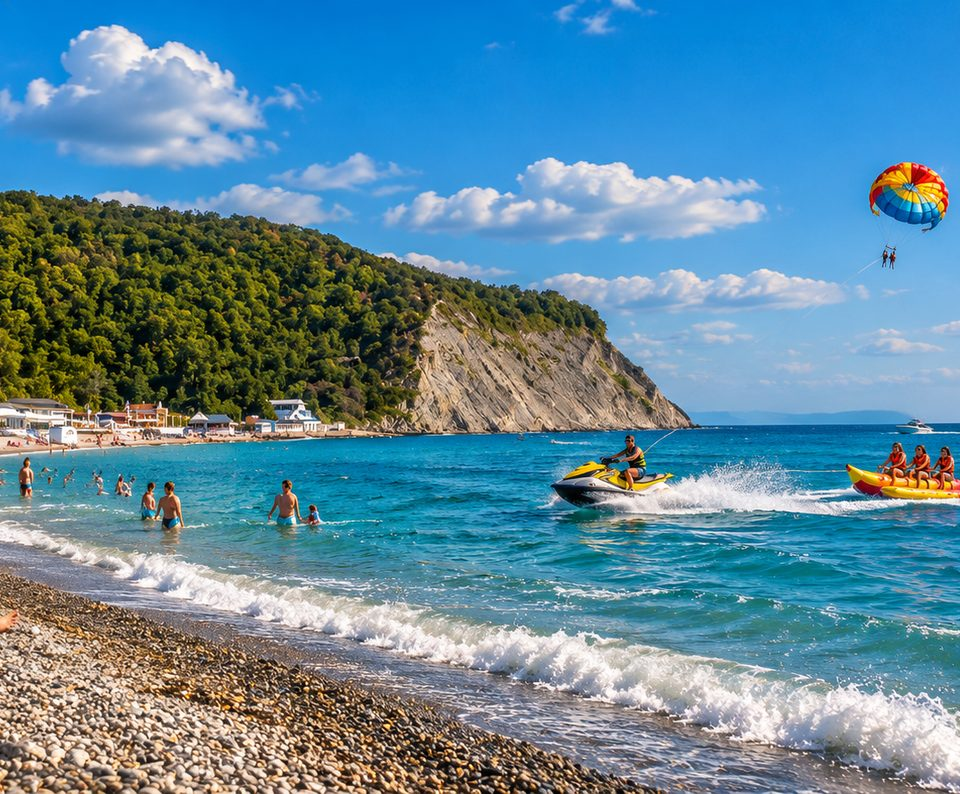
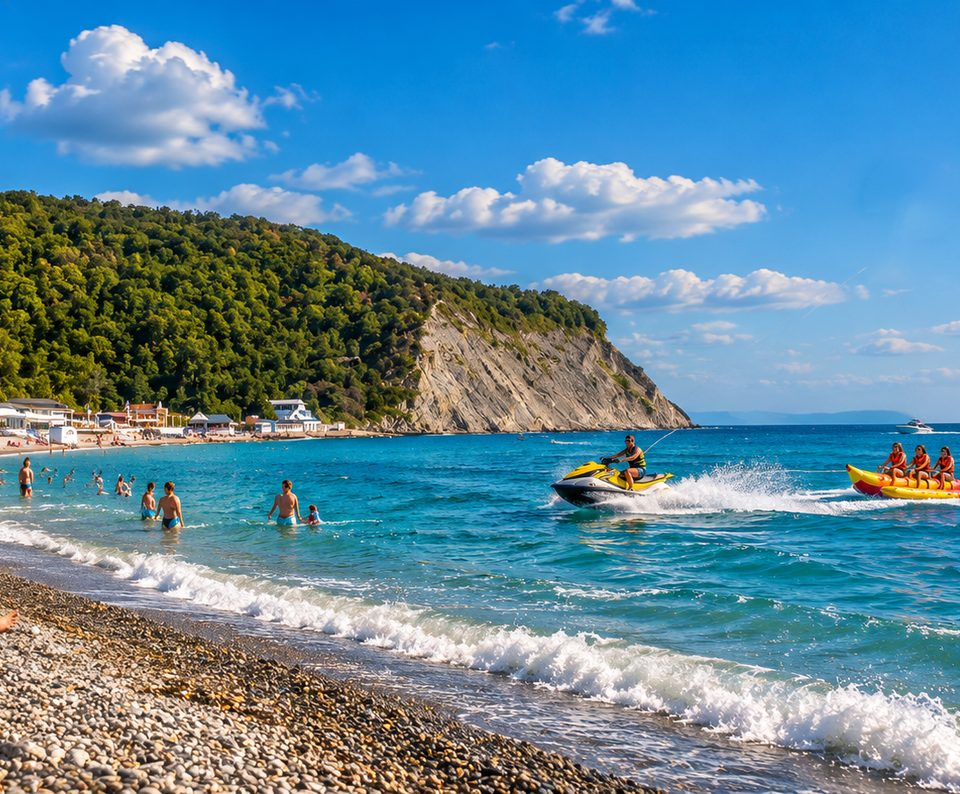
Шапка: анимация, Архипо-Осиповка; жильё в две колонки

Changed region(s): [[0.9062, 0.1814, 1.0, 0.3023], [0.9062, 0.3023, 0.9375, 0.3325]]

diff --git a/yugi.css b/yugi.css
@@ -16,7 +16,7 @@
     -webkit-mask-image: linear-gradient(180deg, #000 55%, transparent 100%); mask-image: linear-gradient(180deg, #000 55%, transparent 100%); }
 .hero-photo { position: absolute; inset: 0; width: 100%; height: 100%; object-fit: cover; object-position: right top; }
 .hero-art { position: absolute; inset: 0; width: 100%; height: 100%; }
-.hero-photo + .hero-art { display: none; }
+.hero-scene:has(.hero-stage) .hero-art { display: none; }
 #tab-search > :not(.hero-scene) { position: relative; z-index: 1; }
 
 .hero-title { font-family: var(--font); font-weight: 800; font-size: 40px; letter-spacing: -1.4px; line-height: 1.04; max-width: none; margin-bottom: 12px; text-shadow: 0 2px 18px rgba(0, 0, 0, .35); }
@@ -746,3 +746,55 @@
 
 /* v29: подзаголовок поверх фото — чуть плотнее тень */
 .hero-photo ~ .hero-sub, #tab-search .hero-sub { text-shadow: 0 1px 3px rgba(0, 0, 0, .5), 0 1px 14px rgba(0, 0, 0, .45); }
+
+/* v30: оживлённая шапка — парашют качается на стропах, по морю идёт рябь и играют блики */
+.hero-stage { position: absolute; right: 0; top: 0; width: max(100%, 435px); aspect-ratio: 960 / 794; }
+.hero-sea { position: absolute; inset: 0; width: 100%; height: 100%; pointer-events: none; will-change: transform; }
+.hero-sea.sea-a { -webkit-mask-image: linear-gradient(180deg, transparent 53%, #000 59%, #000 68%, transparent 78%); mask-image: linear-gradient(180deg, transparent 53%, #000 59%, #000 68%, transparent 78%); }
+.hero-sea.sea-b { -webkit-mask-image: linear-gradient(180deg, transparent 64%, #000 74%, #000 100%); mask-image: linear-gradient(180deg, transparent 64%, #000 74%, #000 100%); }
+.hero-glint { position: absolute; left: 0; width: 100%; top: 52.90%; height: auto; pointer-events: none; opacity: .75; mix-blend-mode: screen; }
+.hero-para { position: absolute; left: 90.31%; top: 20.17%; width: 8.95%; height: auto; pointer-events: none; transform-origin: 26.0% 89.0%; will-change: transform; }
+@media (prefers-reduced-motion: no-preference) {
+    .hero-para { animation: paraSwing 6.4s ease-in-out infinite alternate, paraFloat 9s ease-in-out infinite alternate; }
+    .hero-sea.sea-a { animation: seaA 6.8s ease-in-out infinite alternate; }
+    .hero-sea.sea-b { animation: seaB 5.4s ease-in-out infinite alternate; }
+    .hero-glint.gl-a { animation: glint 2.9s ease-in-out infinite alternate; }
+    .hero-glint.gl-b { animation: glint 2.9s ease-in-out -1.45s infinite alternate; }
+}
+@keyframes paraSwing { from { transform: rotate(-3.2deg); } to { transform: rotate(3.2deg); } }
+@keyframes paraFloat { from { translate: -4px 2px; } to { translate: 5px -3px; } }
+@keyframes seaA { from { translate: -3px 0; } to { translate: 3px 1.5px; } }
+@keyframes seaB { from { translate: 5px 2px; } to { translate: -5px -2px; } }
+@keyframes glint { from { opacity: .12; } to { opacity: .85; } }
+
+/* ===== v31: название местности в шапке, белый заголовок на любой теме, жильё — две колонки (4 карточки на экран) ===== */
+.hero-place { display: flex; width: fit-content; align-items: center; gap: 6px; height: 26px; padding: 0 12px 0 9px; margin: -34px 0 8px; border-radius: 13px; background: rgba(8, 18, 32, .4); border: 1px solid rgba(255, 255, 255, .32); -webkit-backdrop-filter: blur(10px); backdrop-filter: blur(10px); color: #fff; font: 700 12.5px/1 var(--font); letter-spacing: .2px; text-shadow: 0 1px 6px rgba(0, 0, 0, .4); }
+.hero-place i { color: #FFB84D; font-size: 11.5px; }
+/* заголовок лежит на фотографии, поэтому остаётся светлым и на светлых темах */
+.hero-scene:has(.hero-stage) ~ .hero-title { color: #fff; }
+.hero-scene:has(.hero-stage) ~ .hero-sub { color: rgba(255, 255, 255, .94); }
+
+#chatMessages.cards:has(.chat-message-ad) { display: grid; grid-template-columns: repeat(2, minmax(0, 1fr)); column-gap: 0; row-gap: 10px; align-content: start; padding-left: 9px; padding-right: 9px; }
+#chatMessages.cards:has(.chat-message-ad) > :not(.chat-message-ad) { grid-column: 1 / -1; margin-left: -9px; margin-right: -9px; }
+#chatMessages.cards:has(.chat-message-ad) > .chat-message-ad { padding: 0 5px; margin: 0; min-width: 0; }
+#chatMessages.cards:has(.chat-message-ad) .chat-bubble { border-radius: 18px; }
+#chatMessages.cards:has(.chat-message-ad) .chat-ad-image { height: auto; aspect-ratio: 1 / .84; }
+#chatMessages.cards:has(.chat-message-ad) .card-fav { top: 7px; right: 7px; width: 32px; height: 32px; font-size: 14px; }
+#chatMessages.cards:has(.chat-message-ad) .ad-badge-urgent { top: 8px; left: 8px; font-size: 10px; padding: 3px 8px; }
+#chatMessages.cards:has(.chat-message-ad) .ph-count, #chatMessages.cards:has(.chat-message-ad) .sea-dist { bottom: 7px; height: 21px; padding: 0 7px; gap: 4px; font-size: 10.5px; border-radius: 11px; }
+#chatMessages.cards:has(.chat-message-ad) .ph-count { left: 7px; }
+#chatMessages.cards:has(.chat-message-ad) .sea-dist { right: 7px; }
+#chatMessages.cards:has(.chat-message-ad) .sea-dist small { display: none; }
+#chatMessages.cards:has(.chat-message-ad) .ad-info { padding: 7px 9px 9px; gap: 1px; }
+#chatMessages.cards:has(.chat-message-ad) .ad-row1 { gap: 4px; flex-wrap: wrap; }
+#chatMessages.cards:has(.chat-message-ad) .chat-message-ad .chat-ad-price, #chatMessages.cards:has(.chat-message-ad) .chat-ad-price { font-size: 15px; }
+#chatMessages.cards:has(.chat-message-ad) .ad-rate { font-size: 11.5px; }
+#chatMessages.cards:has(.chat-message-ad) .ad-rate small { display: none; }
+#chatMessages.cards:has(.chat-message-ad) .chat-ad-title { font-size: 13px; line-height: 1.25; }
+#chatMessages.cards:has(.chat-message-ad) .chat-ad-location { font-size: 11px; white-space: nowrap; overflow: hidden; text-overflow: ellipsis; display: block; }
+#chatMessages.cards:has(.chat-message-ad) .chat-ad-location span { overflow: hidden; text-overflow: ellipsis; }
+#chatMessages.cards:has(.chat-message-ad) .ad-amen { margin-top: 5px; gap: 4px; flex-wrap: nowrap; overflow: hidden; }
+#chatMessages.cards:has(.chat-message-ad) .ad-amen .am { font-size: 0; gap: 0; width: 24px; height: 22px; padding: 0; justify-content: center; flex: none; }
+#chatMessages.cards:has(.chat-message-ad) .ad-amen .am i { font-size: 11px; }
+#chatMessages.cards:has(.chat-message-ad) .ad-amen .am.more { width: auto; padding: 0 6px; font-size: 10.5px; }
+#chatMessages.cards:has(.chat-message-ad) .chat-reactions:empty { display: none; }

diff --git a/index.html b/index.html
@@ -19,7 +19,7 @@
     <!-- Стили -->
     <link rel="stylesheet" href="styles.css?v=2">
     <link rel="stylesheet" href="features.css?v=2">
-    <link rel="stylesheet" href="yugi.css?v=29">
+    <link rel="stylesheet" href="yugi.css?v=31">
 </head>
 <body>
 
@@ -68,7 +68,14 @@
         <!-- ========== ВКЛАДКА 2: ОНЛАЙН ПОИСК ========== -->
         <section class="tab-content" id="tab-search" style="display:none;">
             <div class="hero-scene" aria-hidden="true">
-                <img class="hero-photo" src="images/hero.jpg" alt="" onerror="this.remove()">
+                <div class="hero-stage">
+                    <img class="hero-photo" src="images/hero.jpg" alt="" onerror="this.parentNode.remove()">
+                    <img class="hero-sea sea-a" src="images/hero.jpg" alt="" onerror="this.remove()">
+                    <img class="hero-sea sea-b" src="images/hero.jpg" alt="" onerror="this.remove()">
+                    <img class="hero-glint gl-a" src="images/hero-glint-a.png" alt="" onerror="this.remove()">
+                    <img class="hero-glint gl-b" src="images/hero-glint-b.png" alt="" onerror="this.remove()">
+                    <img class="hero-para" src="images/hero-para.png" alt="" onerror="this.remove()">
+                </div>
                 <svg class="hero-art" viewBox="0 0 400 300" preserveAspectRatio="xMaxYMin slice">
                     <defs>
                         <radialGradient id="hgSun" cx="0.72" cy="0.78" r="0.7"><stop offset="0" stop-color="#FFD58A" stop-opacity=".95"/><stop offset=".25" stop-color="#FF9A5C" stop-opacity=".55"/><stop offset="1" stop-color="#FF7A59" stop-opacity="0"/></radialGradient>
@@ -81,6 +88,7 @@
                 </svg>
             </div>
 
+            <div class="hero-place"><i class="fas fa-location-dot"></i><span>Архипо-Осиповка</span></div>
             <h1 class="hero-title">Твоё место<br>у <em>моря</em></h1>
             <p class="hero-sub">Жильё, работа, попутчики и вещи — в одном приложении.</p>
 
@@ -188,7 +196,7 @@
 
 <!-- Логика приложения -->
 <script src="rooms.js?v=3"></script>
-<script src="app.js?v=10"></script>
+<script src="app.js?v=11"></script>
 <script src="listing.js?v=6"></script>
 <script src="profile.js?v=9"></script>
     <script src="social.js?v=5"></script>

diff --git a/app.js b/app.js
@@ -734,7 +734,7 @@ function renderHousingMessage(ad) {
                         ${ad.isUrgent ? '<div class="ad-badge ad-badge-urgent">Срочно</div>' : ''}
                         ${remote ? `<button type="button" class="card-fav ${fav ? 'on' : ''}" data-fav="${id}" aria-pressed="${!!fav}" aria-label="В избранное" onclick="event.stopPropagation();toggleCardFav('${id}',this)"><i class="far fa-heart"></i><i class="fas fa-heart"></i></button>` : ''}
                         ${sl.n ? `<span class="ph-count"><i class="fas fa-camera"></i><span><b class="cur">1</b>/${sl.n}</span></span>` : ''}
-                        ${sea ? `<span class="sea-dist"><i class="fas fa-umbrella-beach"></i>${escapeHtml(sea)} до моря</span>` : ''}
+                        ${sea ? `<span class="sea-dist"><i class="fas fa-umbrella-beach"></i>${escapeHtml(sea)}<small> до моря</small></span>` : ''}
                     </div>
                     <div class="ad-info">
                         <div class="ad-row1"><div class="chat-ad-price">${escapeHtml(ad.price)}${ad.isVerified ? ' <i class="fas fa-circle-check ad-ok" aria-label="Проверенный хозяин"></i>' : ''}</div>${rating}</div>
